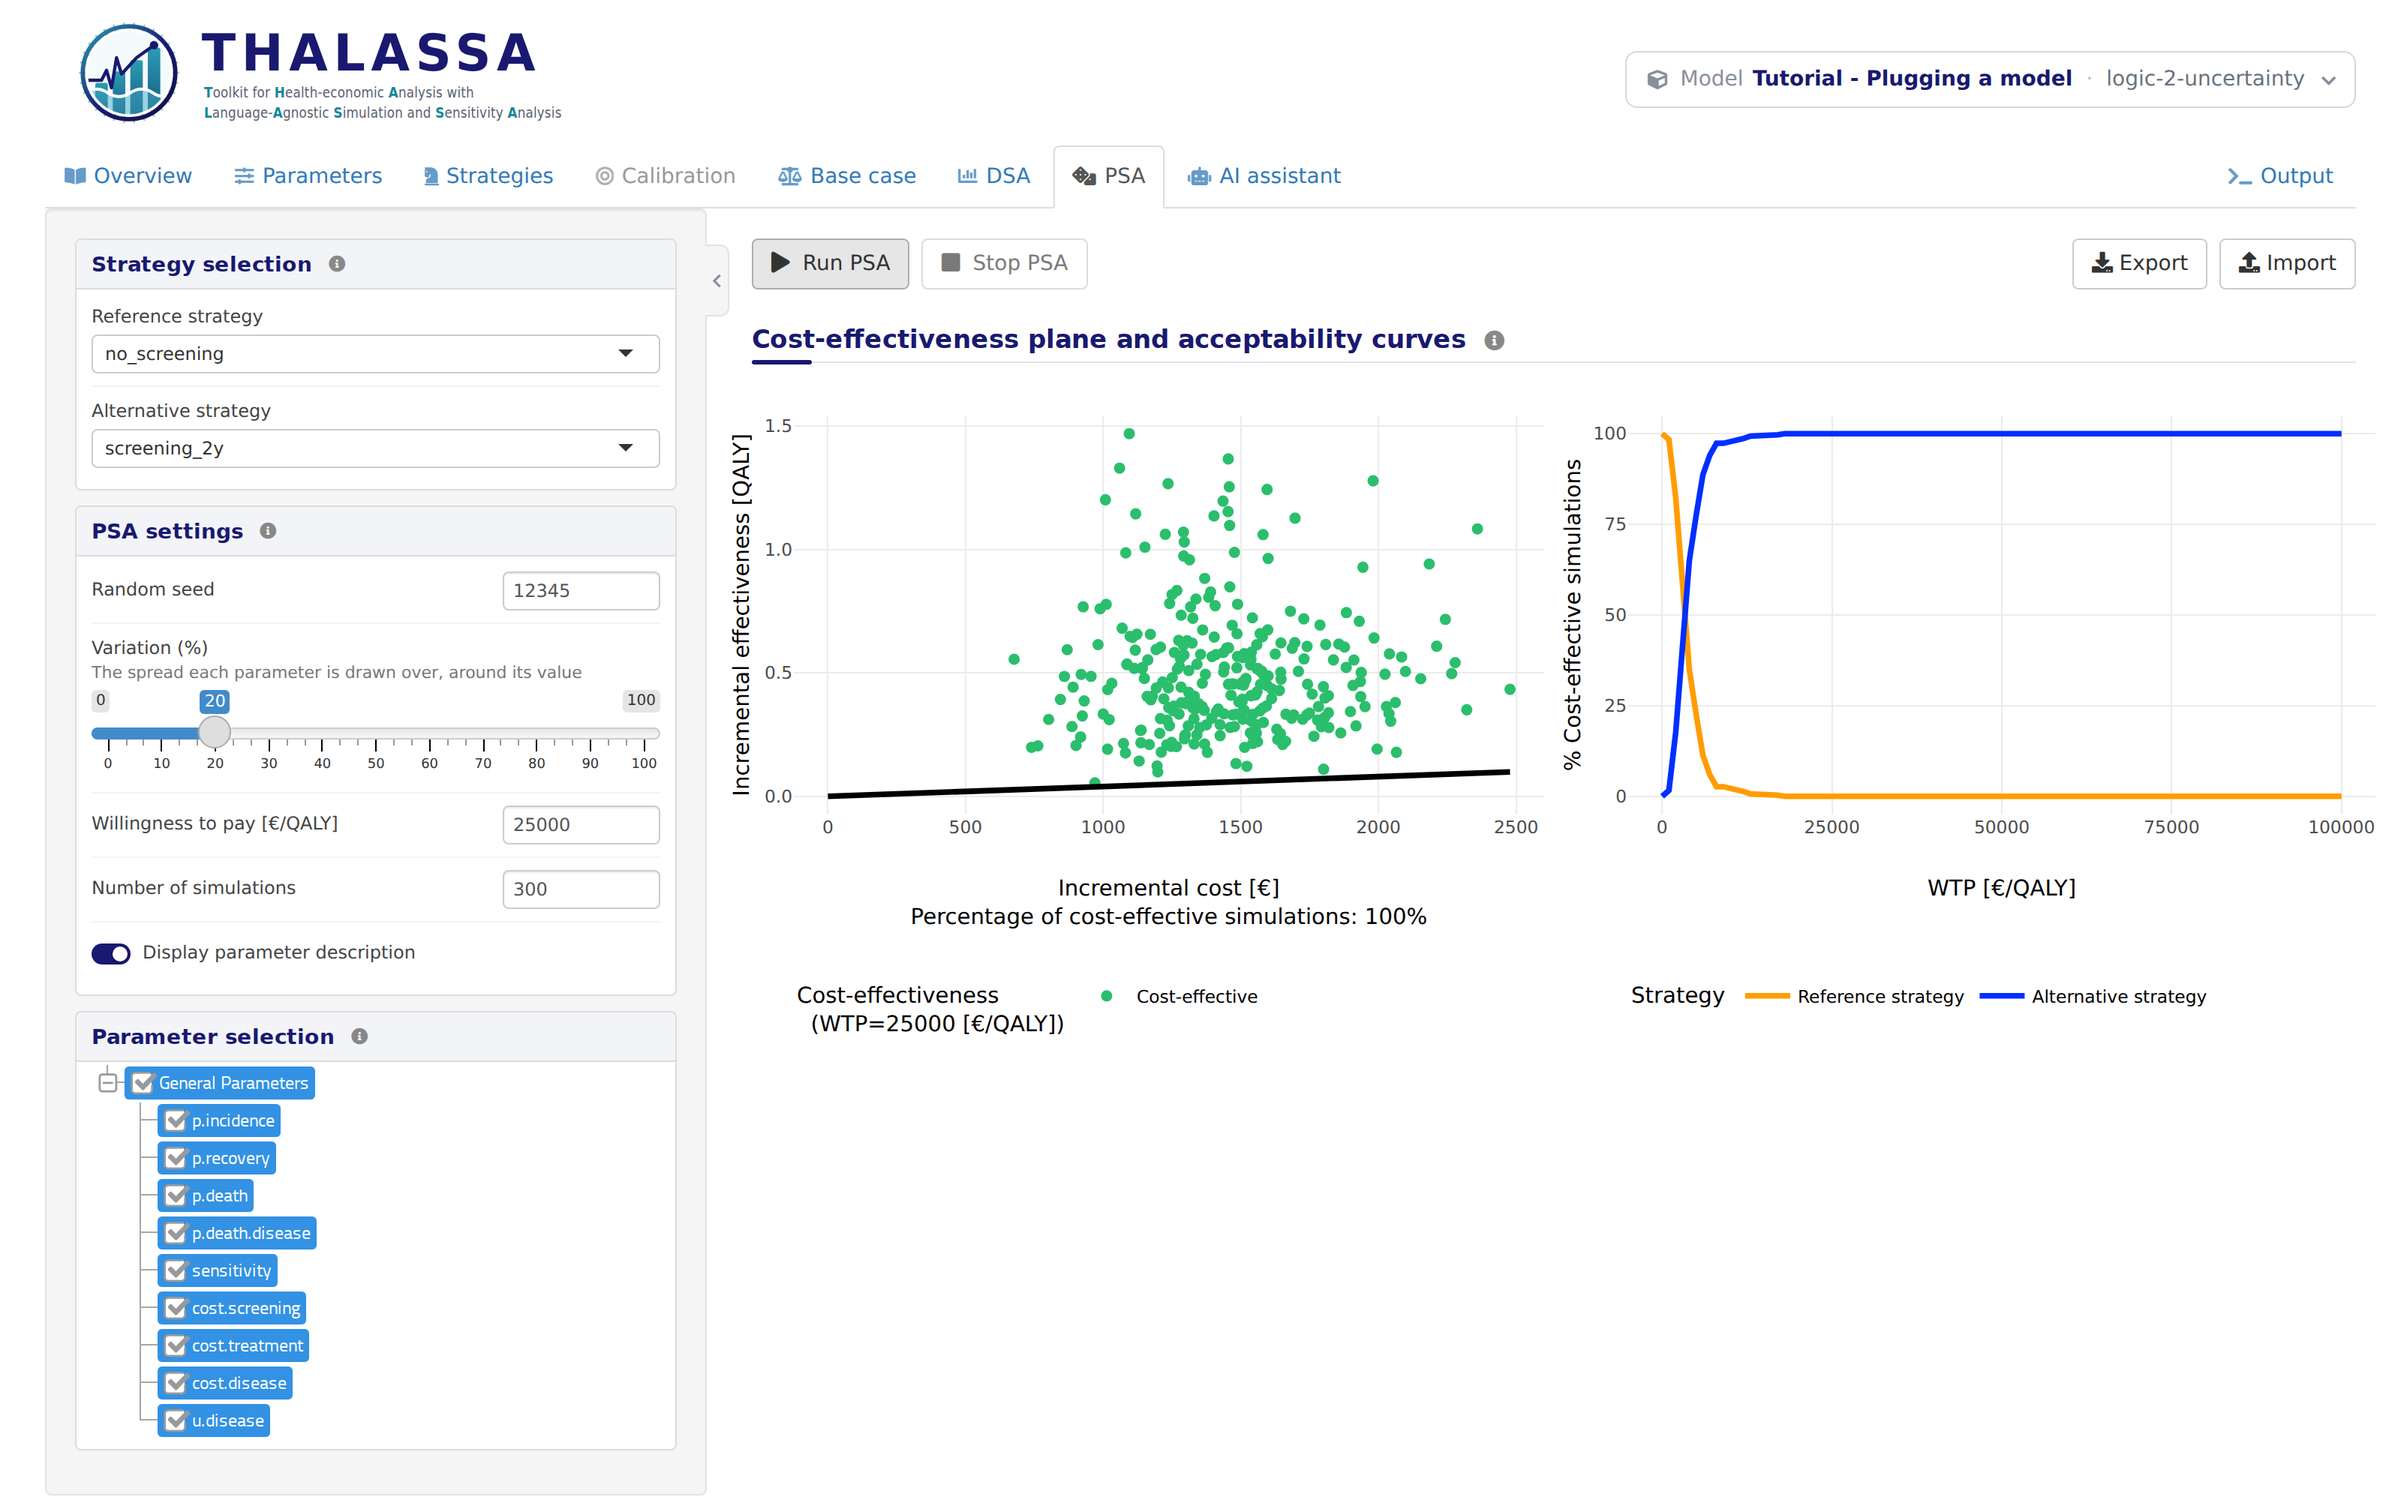
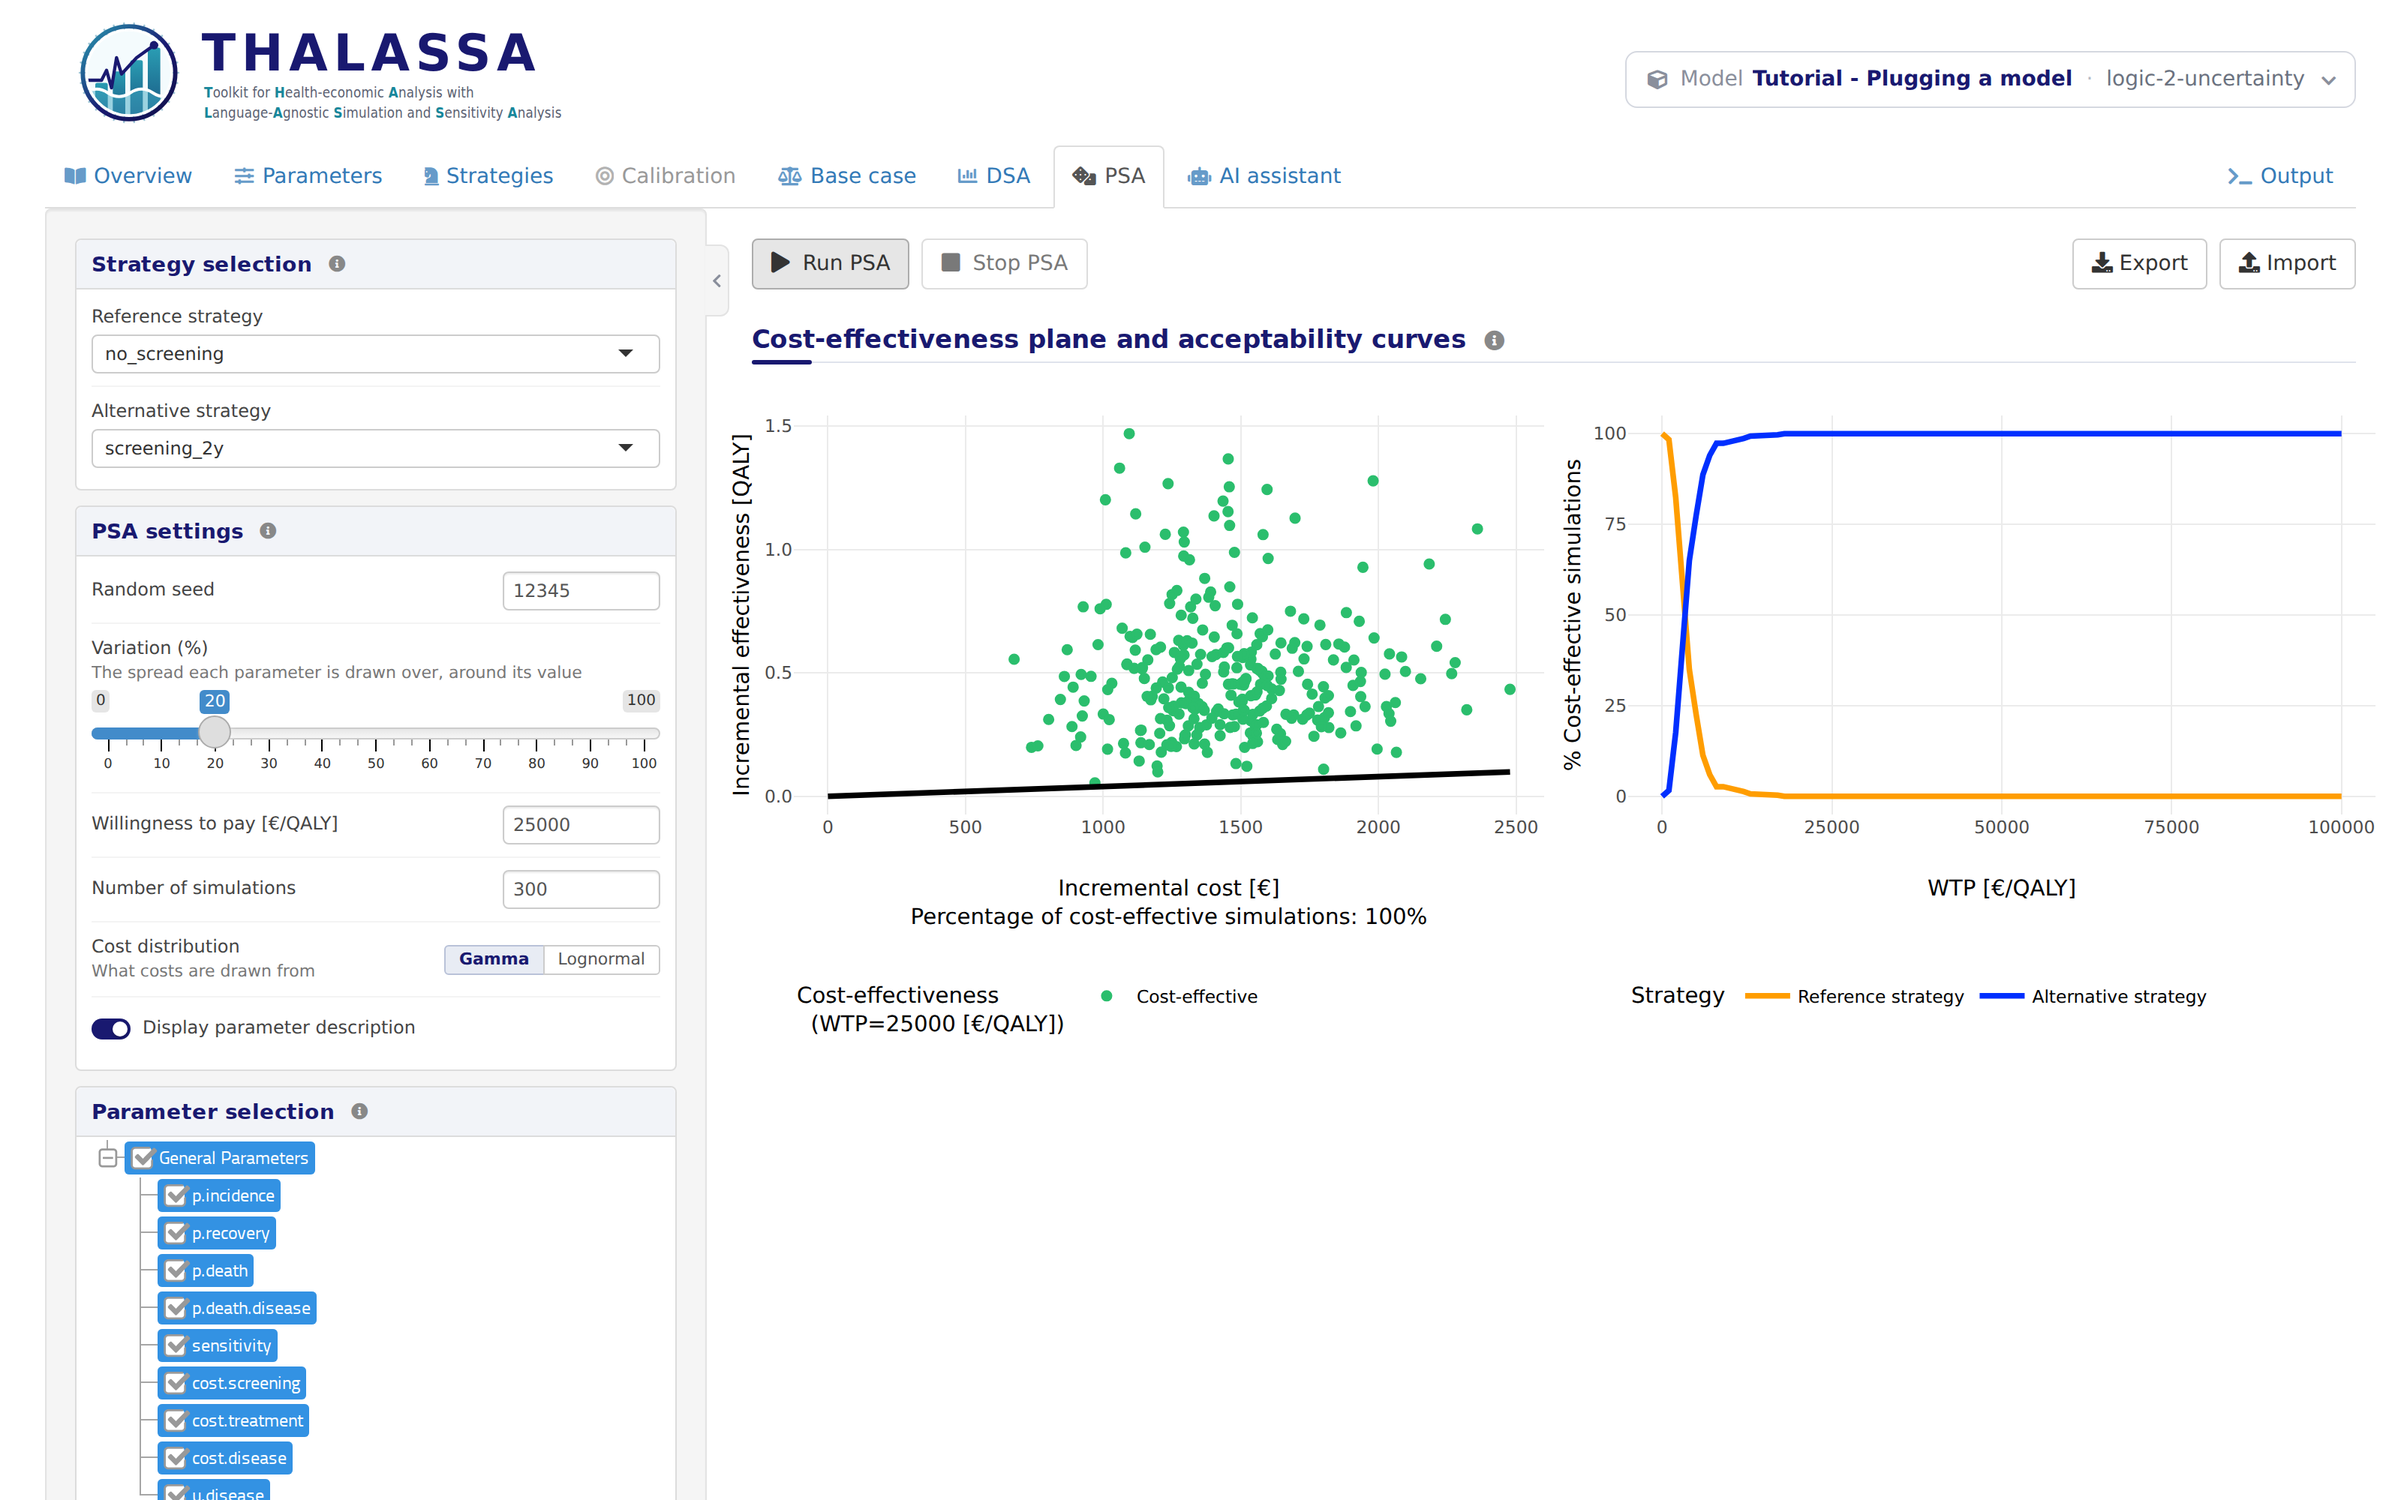
Logic 2: declare parameters as probabilities, utilities and costs

diff --git a/tutorial.md b/tutorial.md
@@ -33,27 +33,27 @@ get.parameters <- function() {
   list(
     # Natural history of the disease
     list(name = 'p.incidence', base.value = 0.01, min.value = 0, max.value = 1,
-         distribution = 'beta'),
+         distribution = 'probability'),
     list(name = 'p.recovery', base.value = 0.05, min.value = 0, max.value = 1,
-         distribution = 'beta'),
+         distribution = 'probability'),
     list(name = 'p.death', base.value = 0.01, min.value = 0, max.value = 1,
-         distribution = 'beta'),
+         distribution = 'probability'),
     list(name = 'p.death.disease', base.value = 0.03, min.value = 0, max.value = 1,
-         distribution = 'beta'),
+         distribution = 'probability'),
 
     # Screening. The DSA varies the sensitivity over the range the literature
     # gives for it, rather than by the percentage set in the DSA tab.
     list(name = 'sensitivity', base.value = 0.75, min.value = 0, max.value = 1,
-         distribution = 'beta', dsa.range = c(0.6, 0.9)),
+         distribution = 'probability', dsa.range = c(0.6, 0.9)),
 
     # Costs
-    list(name = 'cost.screening', base.value = 150, min.value = 0, distribution = 'gamma'),
-    list(name = 'cost.treatment', base.value = 2000, min.value = 0, distribution = 'gamma'),
-    list(name = 'cost.disease', base.value = 300, min.value = 0, distribution = 'gamma'),
+    list(name = 'cost.screening', base.value = 150, min.value = 0, distribution = 'cost'),
+    list(name = 'cost.treatment', base.value = 2000, min.value = 0, distribution = 'cost'),
+    list(name = 'cost.disease', base.value = 300, min.value = 0, distribution = 'cost'),
 
     # Quality of life
     list(name = 'u.disease', base.value = 0.85, min.value = 0, max.value = 1,
-         distribution = 'beta'),
+         distribution = 'utility'),
 
     # The discount rate is a convention rather than an uncertain value: hidden,
     # the user never sees or changes it.
@@ -65,15 +65,18 @@ get.parameters <- function() {
 | Field | What it does |
 |----|----|
 | `min.value`, `max.value` | The range the parameter can take. The app refuses to run with a value outside it. |
-| `distribution` | What the PSA draws the parameter from: `"beta"`, `"gamma"`, `"normal"`, `"lognormal"` or `"exponential"`. |
+| `distribution` | What the PSA draws the parameter from. Either what kind of quantity it is, `"probability"`, `"utility"` or `"cost"`, or a distribution: `"beta"`, `"gamma"`, `"normal"`, `"lognormal"` or `"exponential"`. |
 | `dsa.range` | The two values the DSA tries, lower first, instead of the base value ± the percentage set in the DSA tab. |
 | `hidden` | `TRUE` keeps the parameter out of the app. It is always simulated at its base value. |
 
 Some guidance on choosing them:
 
-- **Distributions.** Use beta for probabilities and utilities, which lie
-  between 0 and 1, and gamma for costs, which cannot be negative.
-  Lognormal suits relative risks and hazard ratios. A parameter with no
+- **Distributions.** Say what kind of quantity a parameter is, and the
+  app picks the distribution. A `"probability"` or a `"utility"` lies
+  between 0 and 1, and is drawn from a beta. A `"cost"` cannot be
+  negative, and is drawn from a gamma or a lognormal, whichever the PSA
+  tab is set to. Name a distribution only for anything else: lognormal
+  suits relative risks and hazard ratios. A parameter with no
   distribution is never sampled by the PSA.
 - **DSA ranges.** Give one when the literature reports an interval for
   the parameter, as for the sensitivity of the test here.
@@ -95,6 +98,15 @@ reference strategy and an alternative, tick the parameters, and click
 Each point is one simulation with every ticked parameter drawn from its
 distribution. On the right, the acceptability curves show how often each
 strategy is cost-effective at each willingness to pay.
+
+Since the model declares costs, the PSA settings also show **Cost
+distribution**, under the number of simulations: what the costs are
+drawn from, **Gamma** or **Lognormal**. A lognormal has a longer right
+tail, so it allows the occasional far higher cost. The switch starts on
+gamma. A model whose costs are better described by a lognormal can start
+it there with `cost.distribution = 'lognormal'` in
+`get.model.settings()`, an optional function Logic
+5 introduces.
 
 **Next:** pick the version **logic-3-strata** in the model bar, for
 *Logic 3: Age groups*.
